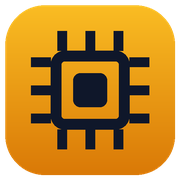
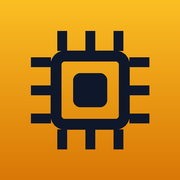
Add files via upload

Changed region(s): [[0.0, 0.0, 1.0, 1.0]]

diff --git a/index.html b/index.html
@@ -2,8 +2,21 @@
 <html lang="vi" class="dark">
 <head>
   <meta charset="UTF-8" />
-  <meta name="viewport" content="width=device-width, initial-scale=1.0" />
+  <meta name="viewport" content="width=device-width, initial-scale=1.0, viewport-fit=cover" />
+  <meta name="apple-mobile-web-app-capable" content="yes" />
+  <meta name="mobile-web-app-capable" content="yes" />
+  <meta name="apple-mobile-web-app-status-bar-style" content="black-translucent" />
+  <meta name="apple-mobile-web-app-title" content="AltiumLab" />
+  <meta name="theme-color" content="#0b0f17" />
   <title>AltiumLab — Học Thiết Kế PCB với Altium Designer</title>
+  <link rel="manifest" href="manifest.webmanifest" />
+  <link rel="icon" type="image/svg+xml" href="favicon.svg" />
+  <link rel="icon" type="image/x-icon" href="favicon.ico" />
+  <link rel="apple-touch-icon" href="apple-touch-icon.png" />
+  <link rel="apple-touch-icon" sizes="120x120" href="icons/icon-120.png" />
+  <link rel="apple-touch-icon" sizes="152x152" href="icons/icon-152.png" />
+  <link rel="apple-touch-icon" sizes="167x167" href="icons/icon-167.png" />
+  <link rel="apple-touch-icon" sizes="180x180" href="icons/icon-180.png" />
   <script src="https://cdn.tailwindcss.com/3.4.17"></script>
   <script src="https://unpkg.com/lucide@0.460.0/dist/umd/lucide.min.js"></script>
   <script>
@@ -48,7 +61,9 @@
       --cad-border: #cbd5e1;
       --cad-text: #0f172a;
     }
-    * { box-sizing: border-box; }
+    * { box-sizing: border-box; -webkit-tap-highlight-color: transparent; }
+    header { padding-top: env(safe-area-inset-top); }
+    body { padding-bottom: env(safe-area-inset-bottom); }
     html, body {
       background-color: var(--cad-bg);
       color: var(--cad-text);
@@ -3982,6 +3997,13 @@
       renderQuiz();
       if (window.lucide) lucide.createIcons();
     })();
+  </script>
+  <script>
+    if ('serviceWorker' in navigator) {
+      window.addEventListener('load', function () {
+        navigator.serviceWorker.register('./sw.js').catch(function () {});
+      });
+    }
   </script>
 </body>
 </html>

diff --git a/sw.js b/sw.js
@@ -1,0 +1,41 @@
+const CACHE_NAME = 'altiumlab-v1';
+const ASSETS = [
+  './',
+  './index.html',
+  './manifest.webmanifest',
+  './favicon.svg',
+  './favicon.ico',
+  './apple-touch-icon.png',
+  './icons/icon-192.png',
+  './icons/icon-512.png'
+];
+
+self.addEventListener('install', event => {
+  event.waitUntil(
+    caches.open(CACHE_NAME).then(cache => cache.addAll(ASSETS)).then(() => self.skipWaiting())
+  );
+});
+
+self.addEventListener('activate', event => {
+  event.waitUntil(
+    caches.keys().then(keys =>
+      Promise.all(keys.filter(k => k !== CACHE_NAME).map(k => caches.delete(k)))
+    ).then(() => self.clients.claim())
+  );
+});
+
+self.addEventListener('fetch', event => {
+  if (event.request.method !== 'GET') return;
+  event.respondWith(
+    caches.match(event.request).then(cached => {
+      const fetchPromise = fetch(event.request).then(resp => {
+        if (resp && resp.status === 200) {
+          const copy = resp.clone();
+          caches.open(CACHE_NAME).then(cache => cache.put(event.request, copy));
+        }
+        return resp;
+      }).catch(() => cached);
+      return cached || fetchPromise;
+    })
+  );
+});

diff --git a/README.md b/README.md
@@ -1,22 +1,23 @@
-# AltiumLab — Ứng dụng Web Học Thiết Kế Mạch PCB với Altium Designer
+# AltiumLab — Ứng dụng Web & iOS PWA Học Altium Designer
 
-**AltiumLab** là ứng dụng web tương tác (single-file HTML/CSS/JS, không cần build) giúp kỹ sư điện – điện tử nhập môn học từ nền tảng linh kiện, đọc sơ đồ nguyên lý đến thực hành đi dây PCB, kiểm tra DRC và xuất Gerber trên Altium Designer.
+Bộ mã nguồn đã được cấu hình đầy đủ chuẩn **GitHub Pages + iOS Web App (PWA)** để chạy toàn màn hình như ứng dụng gốc trên iPhone và iPad, kèm trọn bộ icon chuẩn Apple.
 
-## Tính năng chính
-- **Lộ trình 6 giai đoạn chuẩn kỹ sư**: Từ tạo Project (`.PrjPcb`), vẽ Schematic, đồng bộ ECO, sắp xếp linh kiện, đi dây đến kiểm tra DRC và xuất file Gerber.
-- **Đọc Nguyên lý & Lý thuyết nhập môn toàn diện**:
-  - Sơ đồ nguyên lý tương tác hỗ trợ soi Net kiểu `Alt + Click`, xem phân tích linh kiện và bài tập truy vết.
-  - Lý thuyết nhập môn (`VCC`, `GND`, `R`, `C`, `L`, `Diode`, `MOSFET`, `IC`) kèm mô phỏng mạch MCU bật/tắt quạt 12V.
-  - Từ điển Thuật ngữ A–Z (38 mục có tìm kiếm & lọc), bảng so sánh 5 họ MCU (`ATmega`, `ESP32`, `STM32`, `RP2040`, `nRF52`) và bản đồ chân ngoại vi.
-- **Phòng Lab PCB 2D/3D tương tác**: Kéo thả, xoay (`Space`), lật lớp (`L`), đi dây (`Ctrl+W`), thả Via (`*`), Single Layer Mode (`Shift+S`), xem 3D và kiểm tra lỗi DRC trực tiếp.
-- **Luyện Phím tắt & Công cụ Tính toán PCB**: Luyện phản xạ phím tắt (Cơ bản / Toàn bộ), tính độ rộng đường đồng chuẩn IPC-2221 kèm cảnh báo giới hạn gia công 6 mil, và khám phá cấu trúc bo 4 lớp.
-- **Giao diện Sáng / Tối** tự động lưu trạng thái và tiến độ học tập trên trình duyệt.
+## Cấu trúc tệp
+- `index.html` — Ứng dụng AltiumLab hoàn chỉnh (đã tối ưu vùng tai thỏ/Dynamic Island `viewport-fit=cover` và thẻ `apple-mobile-web-app-capable`).
+- `manifest.webmanifest` — Cấu hình ứng dụng PWA (`display: standalone`, tên, màu thanh trạng thái, icon).
+- `sw.js` — Service Worker hỗ trợ lưu đệm (cache) giúp mở nhanh và học ngoại tuyến trên iOS.
+- `apple-touch-icon.png` & `icons/icon-{120,152,167,180,192,512}.png` — Trọn bộ icon nền đầy (opaque) chuẩn iPhone, iPad, iPad Pro và PWA.
+- `favicon.svg` & `favicon.ico` — Icon cho trình duyệt máy tính.
+- `.nojekyll` — Đảm bảo GitHub Pages phục vụ toàn bộ tệp chính xác.
 
-## Cách đưa lên GitHub & chạy trực tiếp bằng GitHub Pages
-1. Tạo một repository mới trên GitHub (ví dụ: `altiumlab`).
-2. Giải nén tệp `altiumlab-github.zip` và tải toàn bộ 3 tệp (`index.html`, `README.md`, `LICENSE`) lên nhánh `main`.
-3. Vào **Settings → Pages → Build and deployment → Source: Deploy from a branch**, chọn nhánh `main` và thư mục `/ (root)`, sau đó bấm **Save**.
-4. Sau khoảng 1–2 phút, ứng dụng sẽ hoạt động công khai tại địa chỉ `https://<ten-github-cua-ban>.github.io/altiumlab/`.
+## Bước 1: Đưa lên GitHub & bật GitHub Pages
+1. Tạo repository mới trên GitHub (ví dụ `altiumlab`).
+2. Giải nén `altiumlab-github-ios.zip` và tải toàn bộ tệp (kể cả thư mục `icons/` và tệp `.nojekyll`) lên nhánh `main`.
+3. Vào **Settings → Pages → Build and deployment → Source: Deploy from a branch**, chọn nhánh `main` và `/ (root)` → bấm **Save**.
+4. Đợi 1–2 phút để nhận đường dẫn `https://<ten-github>.github.io/altiumlab/`.
 
-## Chạy cục bộ (Offline)
-Chỉ cần mở trực tiếp tệp `index.html` bằng trình duyệt Chrome, Edge, Firefox hoặc Safari.
+## Bước 2: Cài đặt chạy như App trên iOS (iPhone / iPad)
+1. Mở đường dẫn GitHub Pages vừa tạo bằng trình duyệt **Safari** trên iPhone/iPad.
+2. Bấm nút **Chia sẻ (Share)** ở thanh dưới cùng.
+3. Chọn **Thêm vào Màn hình chính (Add to Home Screen)** → bấm **Thêm (Add)**.
+4. Biểu tượng **AltiumLab** màu vàng hổ phách sẽ xuất hiện ngay trên màn hình chính và mở toàn màn hình không thanh địa chỉ.
